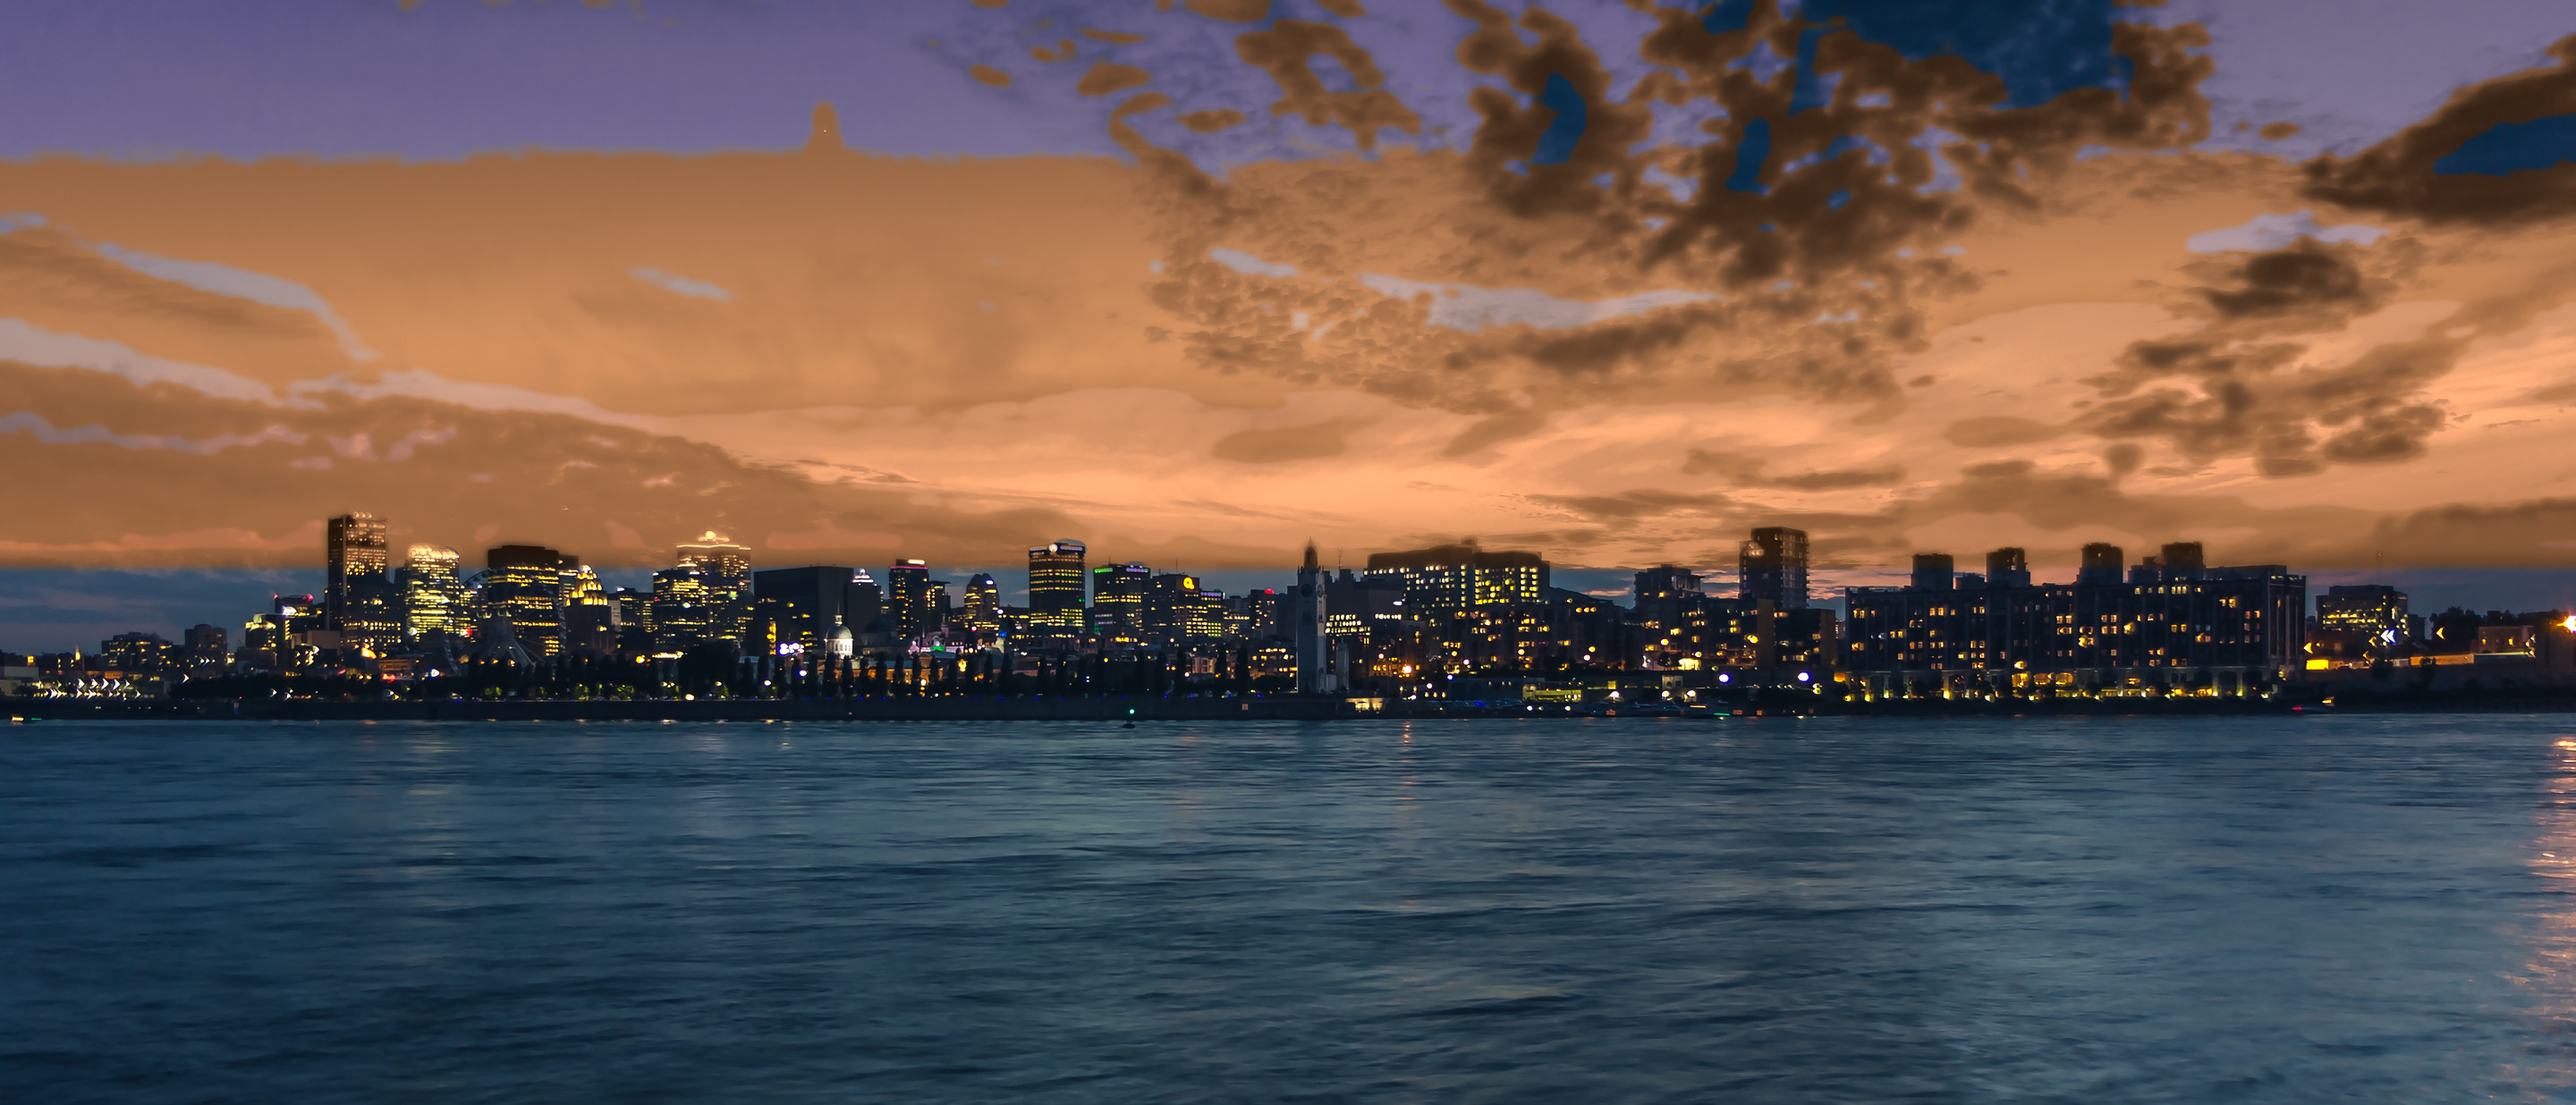
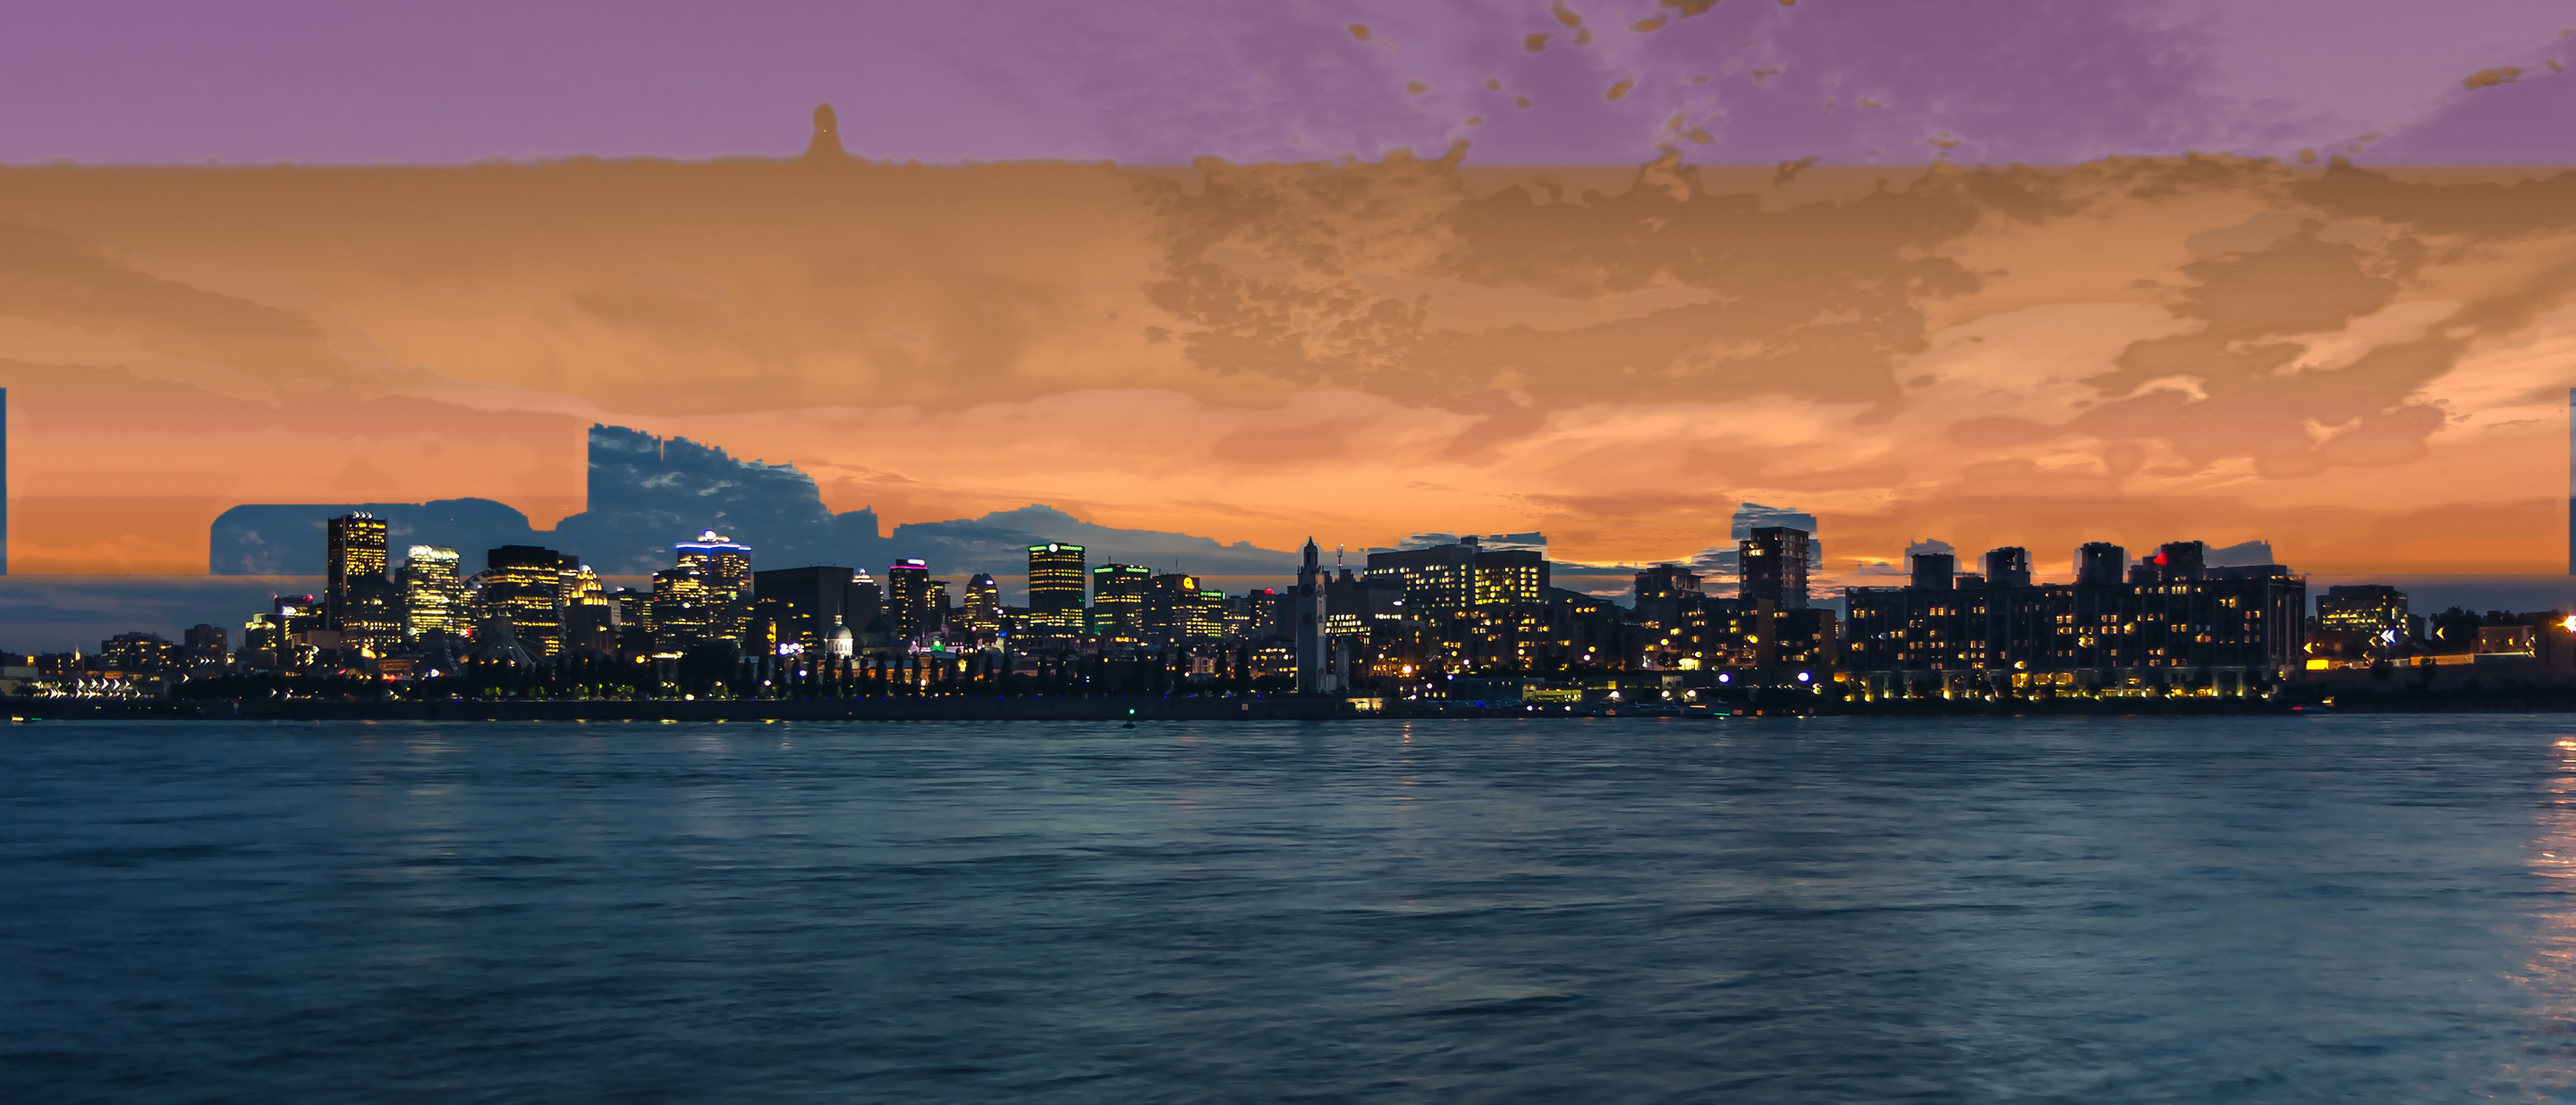
fix(doodle): nouvel étalonnage des skylines, caches v1071
Photos Montréal et Québec recuites : toits plus nets, trous de
nuages teintés comme le ciel voisin. Caches radar-shell-v1071 et
sports-shell-v447.

diff --git a/sports/sw.js b/sports/sw.js
@@ -22,7 +22,7 @@
 
 importScripts('../scripts/sports-document-refresh.js');
 
-const SHELL_CACHE  = 'sports-shell-v446';
+const SHELL_CACHE  = 'sports-shell-v447';
 
 const FONT_CACHE   = 'sports-fonts-v2';
 const CACHE_PREFIX = 'sports-';

diff --git a/sw.js b/sw.js
@@ -1,4 +1,4 @@
-const CACHE_NAME = "radar-shell-v1070";
+const CACHE_NAME = "radar-shell-v1071";
 
 const CACHE_PREFIX = "radar-";
 /** Cache permanent : page maintenance / hors-ligne (ne se purge pas au bump shell). */
